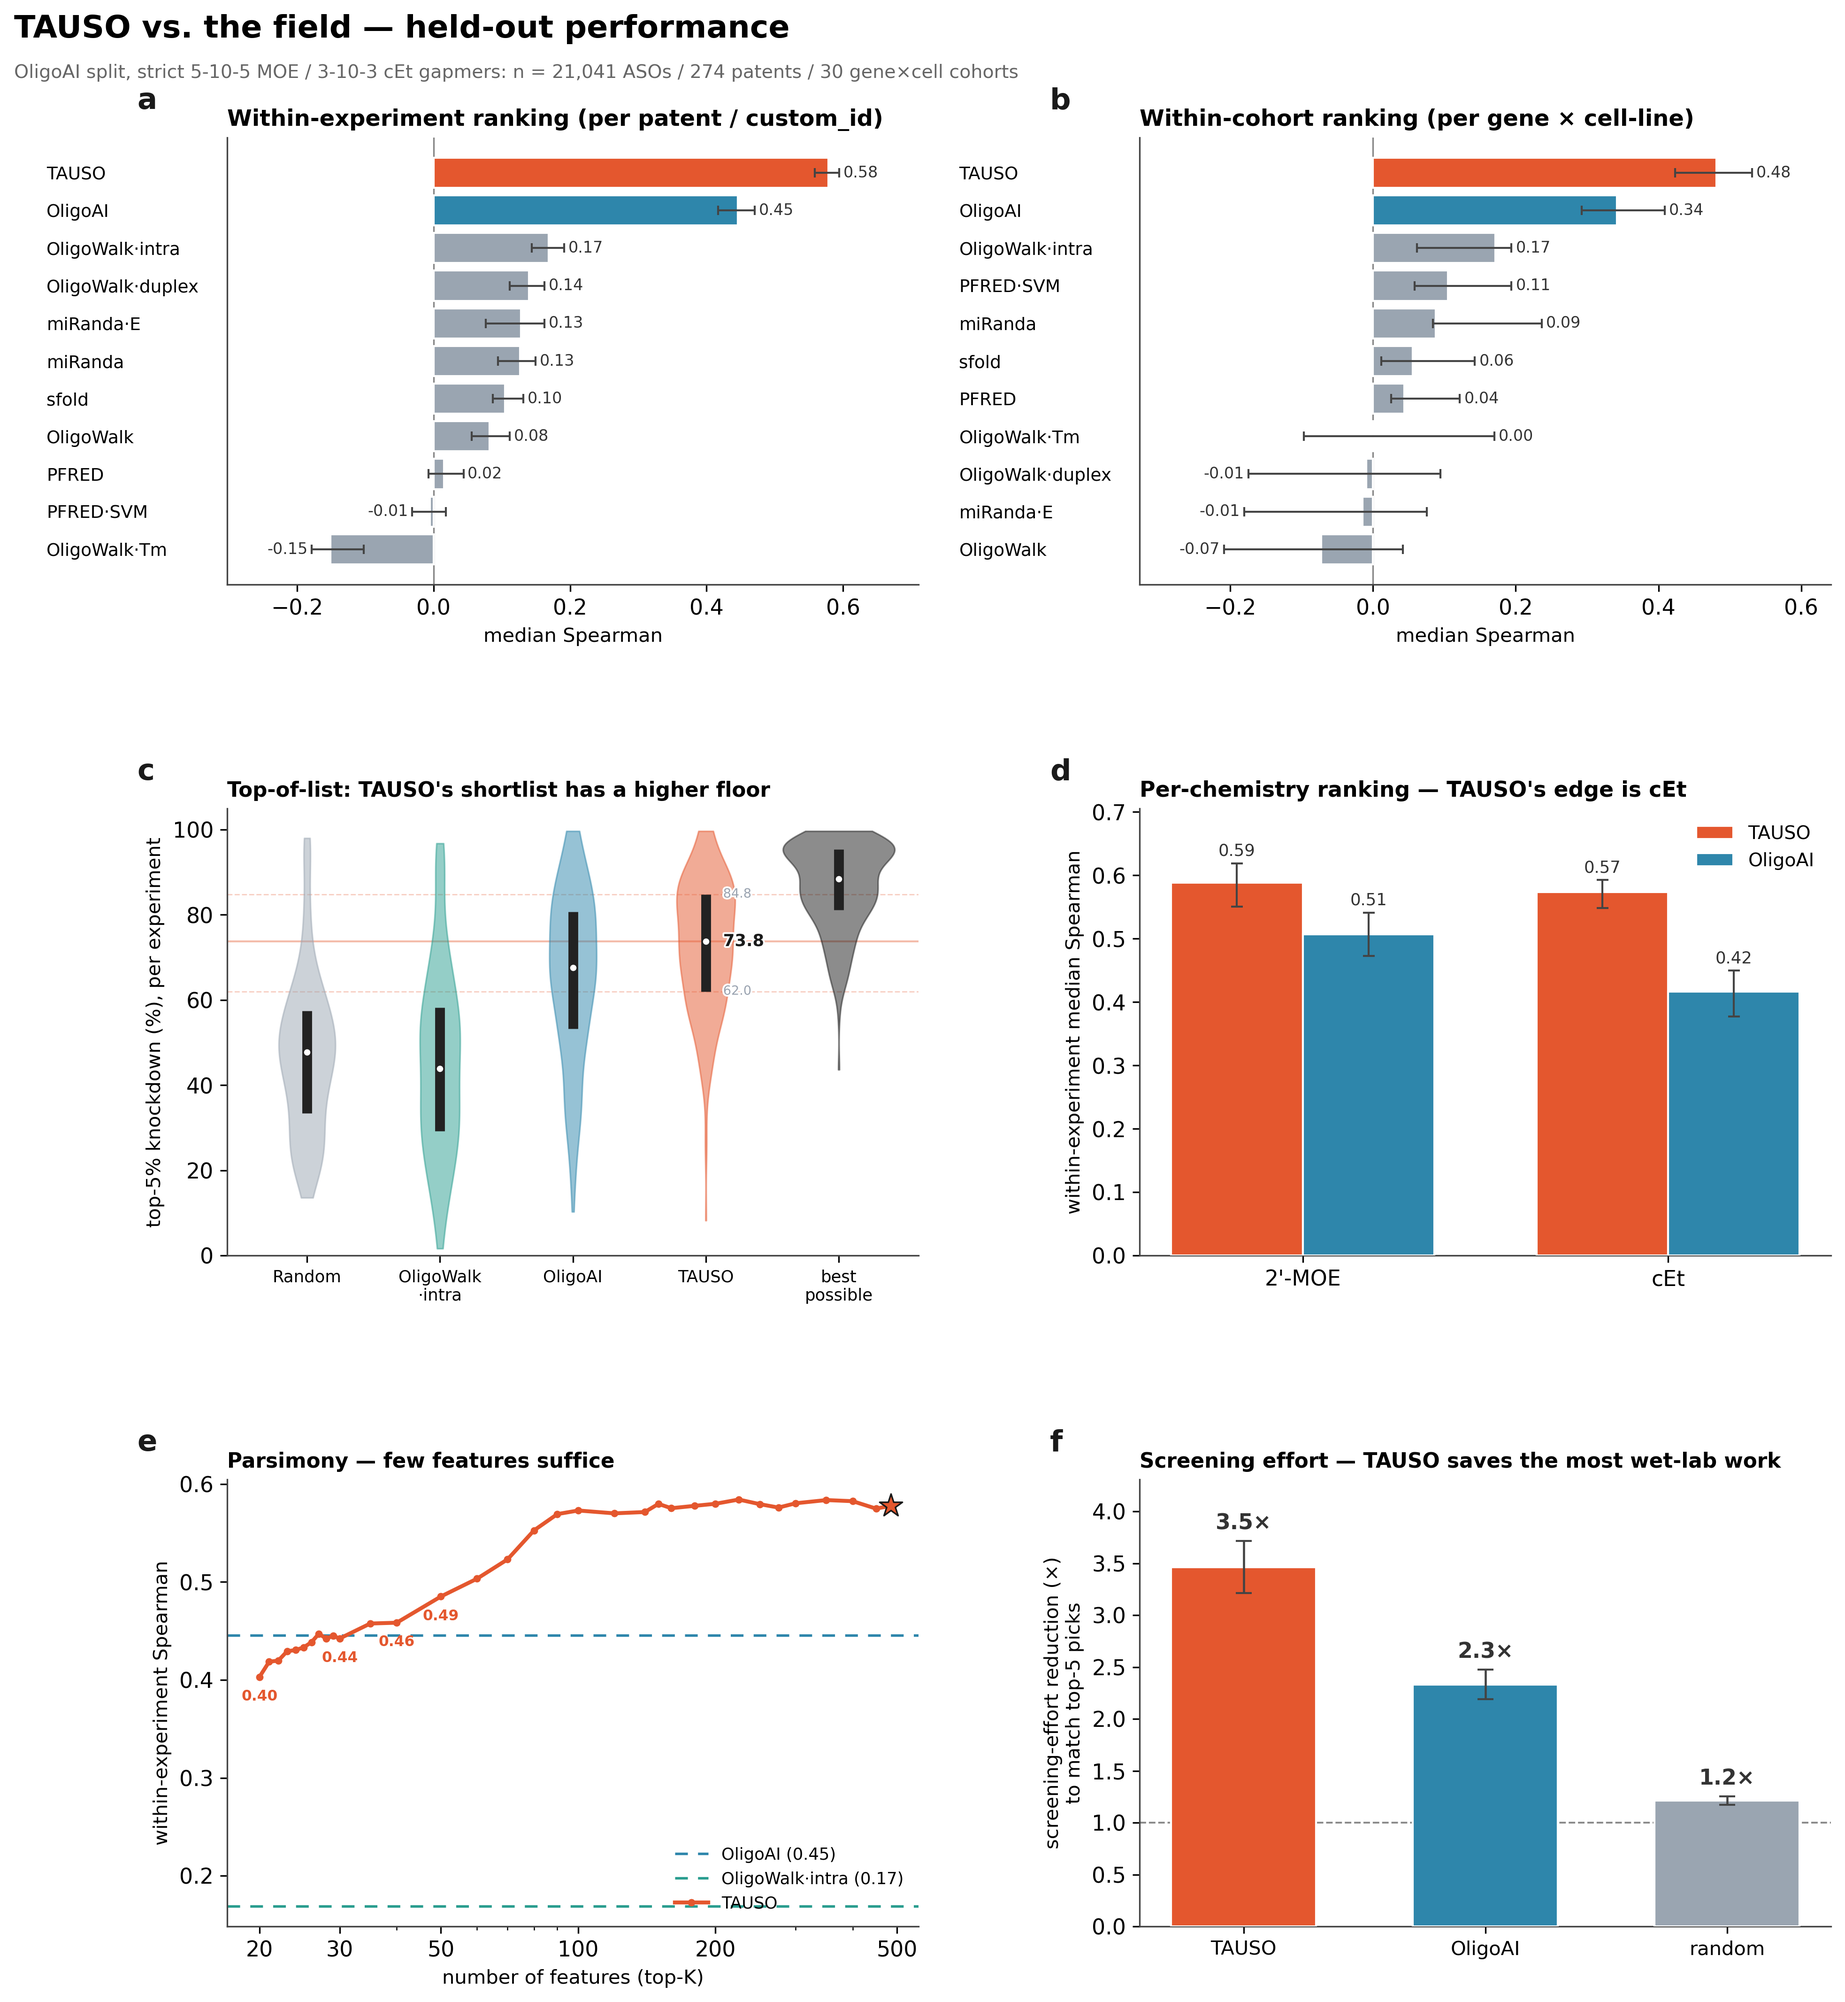
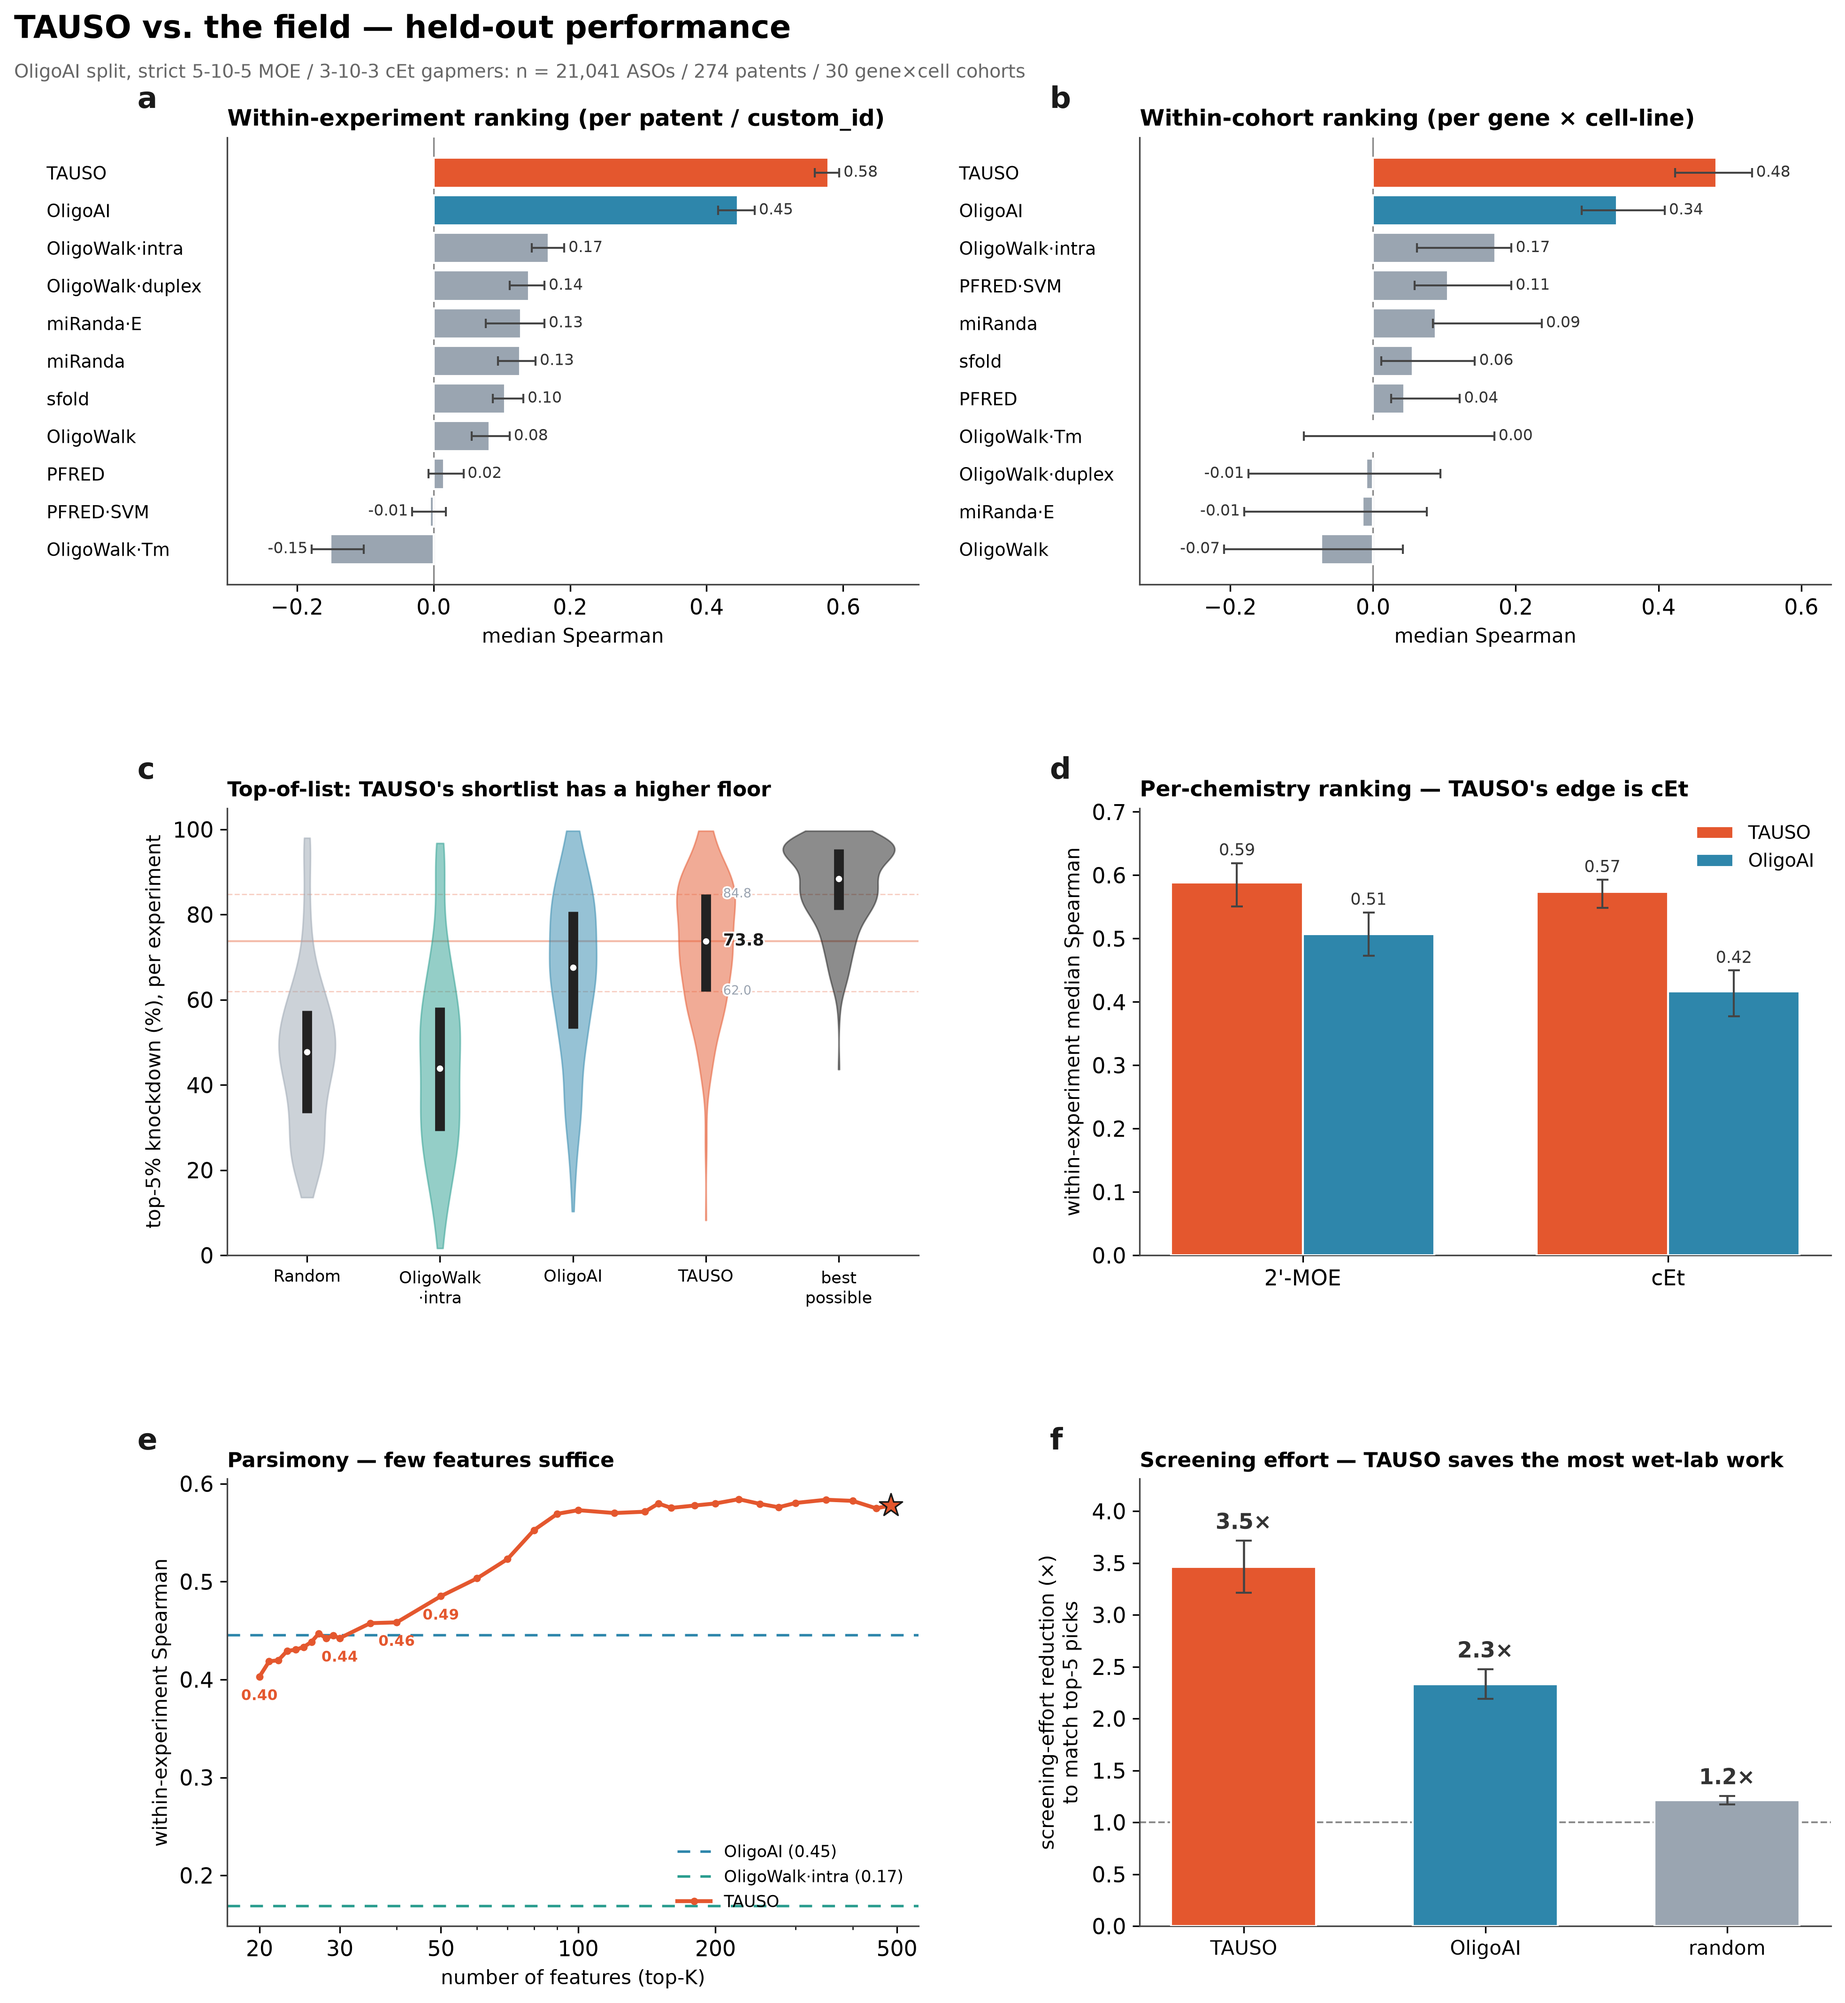
fig2e: stop matplotlib labelling the log axis minor ticks
The panel sets a fixed major locator/formatter but left the minor ticks
alone. Newer matplotlib labels them when a log axis spans under two
decades, so the x-axis rendered as "20 30 4x10^50 6x10^1 100 ..." instead
of "20 30 50 100 200 500".

diff --git a/notebooks/graphs/article/fig2/_helpers.py b/notebooks/graphs/article/fig2/_helpers.py
@@ -3,7 +3,7 @@ import sys
 from pathlib import Path
 
 import numpy as np
-from matplotlib.ticker import FixedFormatter, FixedLocator
+from matplotlib.ticker import FixedFormatter, FixedLocator, NullFormatter
 
 sys.path.insert(0, str(Path(__file__).resolve().parents[2]))   # notebooks/graphs, for consts
 from consts import ACCENT, BLUE, GREY, INK   # noqa: E402  (re-exported for panels)
@@ -54,6 +54,9 @@ def logx_features(ax, kmax):
     ax.set_xscale("log")
     ax.xaxis.set_major_locator(FixedLocator(_XTICKS))
     ax.xaxis.set_major_formatter(FixedFormatter([str(k) for k in _XTICKS]))
+    # A log axis spanning under two decades also labels its minor ticks, which collide with
+    # the fixed labels above. Silencing them keeps the ticks and drops only their text.
+    ax.xaxis.set_minor_formatter(NullFormatter())
     ax.set_xlim(17, kmax * 1.15)
     ax.set_xlabel("number of features (top-K)", fontsize=10)
 
